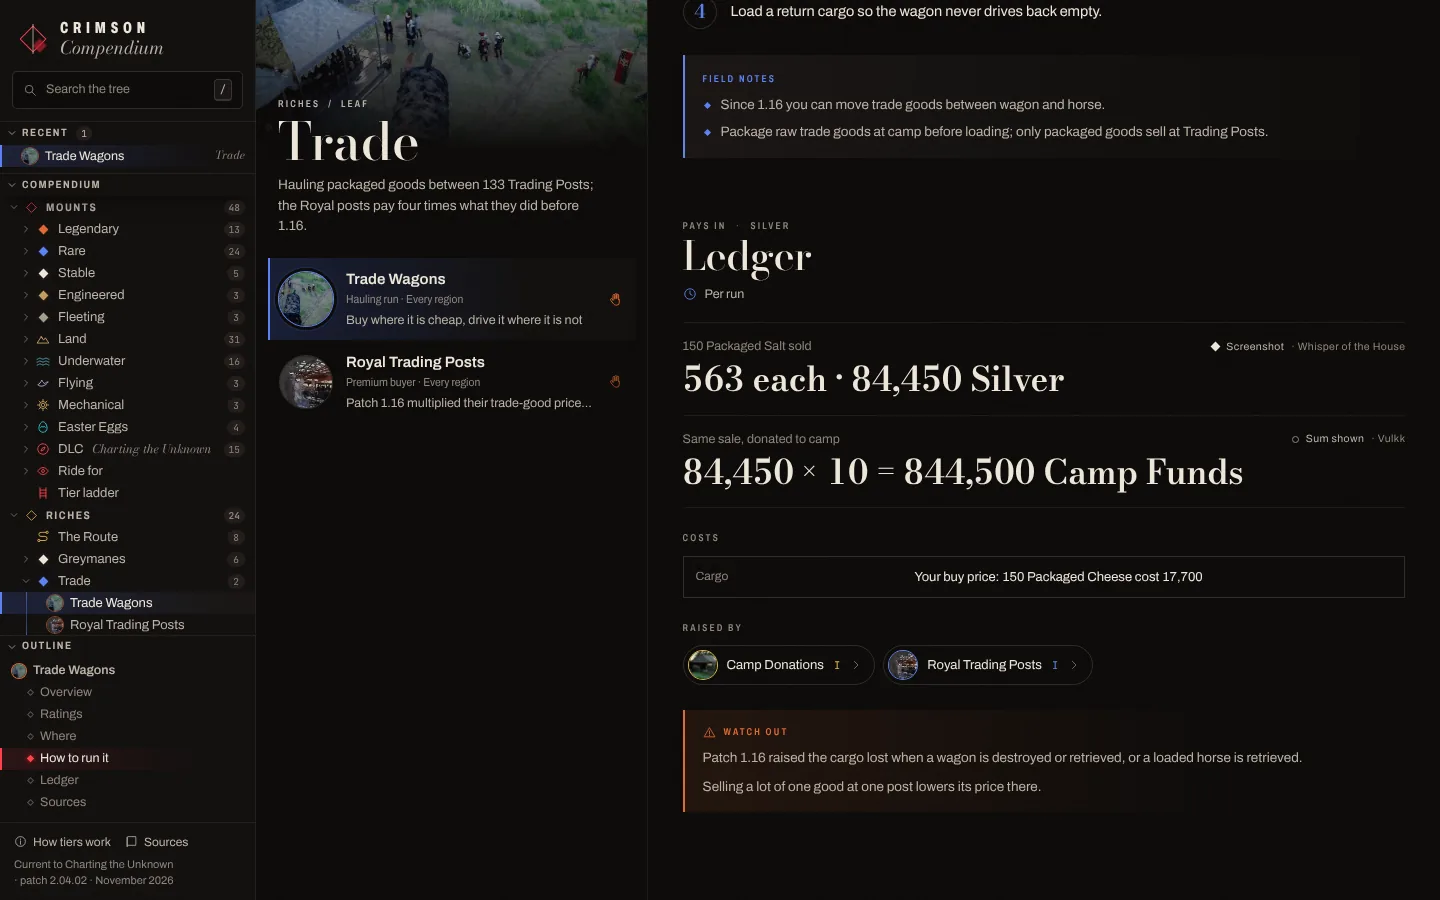
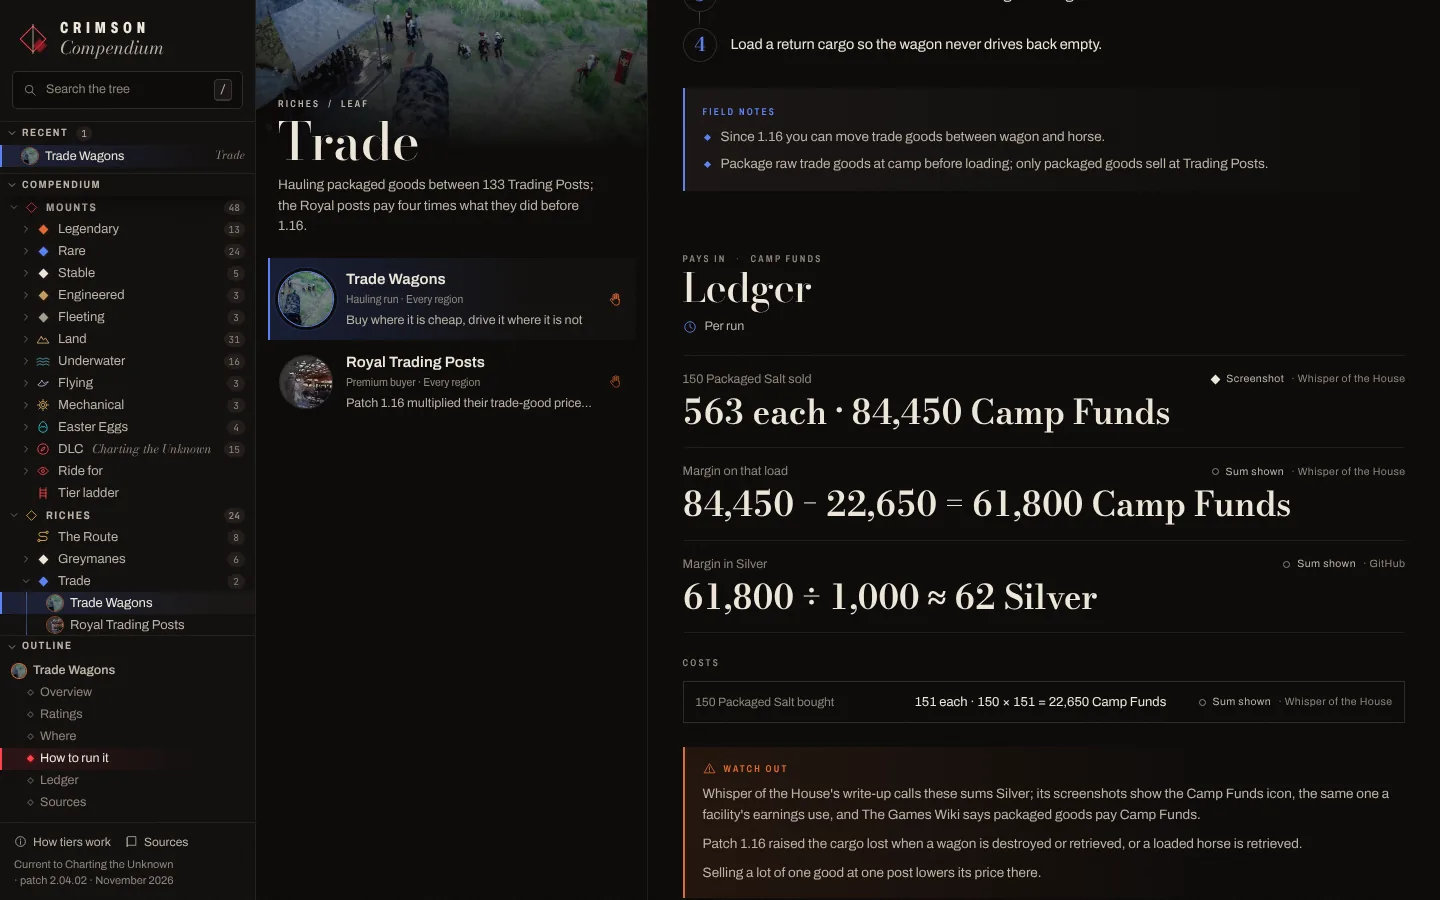
Riches: trading pays Camp Funds; Route rebuilt around Silver
- Packaged trade goods are bought and sold in Camp Funds: the Whisper of
  the House screenshots carry the Camp Funds icon (the one a facility's
  earnings use) though its write-up says Silver, and The Games Wiki says
  packaged goods pay Camp Funds. The Salt load's 61,800 margin is about
  62 Silver; Trade Wagons Return V, Royal Trading Posts IV.
- Player Control re-rated in Silver: pickpocketing I, Gold Bar crafting
  II, cards III, crude gold IV. Bank: with a save before each roll Medium
  never loses and gains up to +20% (not a guaranteed +15%).
- Route rebuilt: Make Silver, Put the bars to work, Convert only what you
  spend, Arm the multipliers, Build the materials engine, Finish Pailune,
  Build the first ship and buy the big one, Lease/pioneer/build. Trading
  runs alongside as a meanwhile step.
- Verify's axe sweep jumps instead of gliding through smooth-scroll
  panes and names any section that never revealed.

Claude-Session: https://claude.ai/code/session_01CDNBdZ3zCesRifz13JDxvR

diff --git a/DESIGN.md b/DESIGN.md
@@ -126,7 +126,7 @@ You asked for Riches on 2026-11-19: an endgame economy guide for a player who ha
   - Copper → Silver (100:1) → Gold Bar (500 Silver at a bank; about 190 at a merchant).
   - Camp Funds are counted in copper. Before 2.01, one donated copper gave one Camp Fund (100 per Silver); patch 2.01 multiplied donated Silver by ten, so **one Silver now gives 1,000 Camp Funds** and a Gold Bar, exchanged and donated, gives 500,000. Sources: Vulkk (the ×10 and the old 1:1), All Things How (100 per Silver before 2.01), and the Camp-Funds-Withdraw mod, which inverts the game's own donation and states the current rate.
   - The Games Wiki's 50,000 Camp Funds per donated Gold Bar is the pre-2.01 copper value of 500 Silver. The Route says to exchange bars for Silver first and never donate a bar whole.
-  - **Silver is the yardstick for Return.** Camp Funds count at 1,000 to the Silver, so management methods that pay Camp Funds (dispatch, facilities) rate low next to the Silver earners (trade, the bank, pickpocketing). The DLC's Camp Funds prices fall to a few Gold Bars: the 6,000,000 Large Hernandian Ship is 6,000 Silver.
+  - **Silver is the yardstick for Return.** Camp Funds count at 1,000 to the Silver, so methods that pay Camp Funds rate low next to the Silver earners (pickpocketing, Gold Bar crafting, the bank). Those Camp Funds methods are dispatch, facilities and wagon trading. Packaged trade goods are bought and sold in Camp Funds: Whisper of the House's write-up calls its sums Silver, but its screenshots show the Camp Funds icon, the same one a facility's earnings use. The DLC's Camp Funds prices fall to a few Gold Bars: the 6,000,000 Large Hernandian Ship is 6,000 Silver.
   - One Hernand Bond is 10 Gold Bars; Bonds need 10 (100 bars) to invest.
 - **Every figure carries its basis.** The ledger labels each figure:
   - *Patch notes*.
@@ -137,14 +137,16 @@ You asked for Riches on 2026-11-19: an endgame economy guide for a player who ha
 
   When sources disagree, the plate shows both. Facility income is shown three ways: screenshot figures from a young sawmill (48,422 over 40 hours open; a 7-hour day earning 18,094 against 33,660 in wages and upkeep), the player-reported million a day, and NeonLights' note that patch 2.04.02 fixed inflated facility earnings.
 - **The Route** (`#riches-route`) is a generic branch view (`BranchDef.route`). It is an ordered plan of phases. Each phase has a stage, a reason, a cover, steps that link to plates, and optional *meanwhile* loops (player-control work to do while timers run). It is the "targeted strategy" you asked for:
-  1. Arm the multipliers.
-  2. Build the dispatch engine.
-  3. Open the trade routes.
-  4. Convert at the best rate.
-  5. Finish Pailune.
-  6. Lease before you sail.
-  7. Build the first ship, buy the second.
-  8. Pioneer the islands.
+  1. Make Silver.
+  2. Put the bars to work.
+  3. Convert only what you spend.
+  4. Arm the multipliers.
+  5. Build the materials engine.
+  6. Finish Pailune.
+  7. Build the first ship, buy the big one.
+  8. Lease, pioneer, build.
+
+  The order follows the corrected exchange rate. Silver earners lead because one Silver buys 1,000 Camp Funds. Dispatch stays for the materials (food, stone, timber, weapons) that castles, shipbuilding and Grey-0 workers consume. Trading pays Camp Funds, so it runs alongside, never as a phase of its own.
 
   The ship call in phase 7 comes from the data. The quest-built Small Greymane Ship holds 14 slots, the same as the 40,000 Small Hernandian, so the Route skips that purchase. At the 2.01 donation rate the Large (36 slots, 6,000,000) costs 6,000 Silver, twelve Gold Bars, so the Route buys it outright and keeps the Medium as the fallback.
 - **Route view design.** It is image-led:

diff --git a/docs/RICHES-RESEARCH.md b/docs/RICHES-RESEARCH.md
@@ -94,9 +94,9 @@ Basis: guide · KeenGamer (inventory), PowerUp Gaming (health); screenshot · Wh
 
   It also raised the cargo lost when a wagon is destroyed or retrieved. Basis: patch · Console Pulse.
 - Wagons need Brice (*A Rumor in Glenbright Farm*), an Engineer and the Timberturner Wainwright. Basis: guide · Console Pulse.
-- **A published run** (screenshots · Whisper of the House):
-  - 150 Packaged Cheese bought at 118 (17,700 Silver), for Varnia's Royal post, which listed Cheese at 1,000.
-  - 150 Packaged Salt bought 22% below reference and sold at 563 each: 84,450 Silver.
+- **A published run** (screenshots · Whisper of the House). The write-up calls these sums Silver. The screenshots show the Camp Funds icon, the one a facility's earnings use, and The Games Wiki says packaged goods pay Camp Funds:
+  - 150 Packaged Cheese bought at 118 (17,700 Camp Funds), for Varnia's Royal post, which listed Cheese at 1,000.
+  - 150 Packaged Salt bought 22% below reference and sold at 563 each: 84,450 Camp Funds, a 61,800 margin, or about 62 Silver at the donation rate.
 
 ## Bank
 

diff --git a/README.md b/README.md
@@ -36,7 +36,7 @@ A mount can sit in several lists. The A.T.A.G. is Land, Underwater, Mechanical a
 
 **Riches**, the second branch: an endgame economy guide for a player who has finished the main story but not started *Charting the Unknown*. It has 24 money methods, each on its own plate.
 
-- **The Route**: eight phases in order, from arming the multipliers to pioneering islands. Every step links the plate that explains it.
+- **The Route**: eight phases in order, from making Silver to pioneering islands. Every step links the plate that explains it.
 - **Ledger**: what a method pays in, each figure with its basis (patch notes, guide, in-game screenshot, player report, or a sum shown), costs, the multipliers that raise it, and what to watch out for.
 - **Tiers**: Return, Effort, Setup and Scale rated **I–V** within *Management* (camp, staff, assets) or *Player Control* (what Kliff does by hand). Where nothing documents a payout, the method is marked not rated.
 
